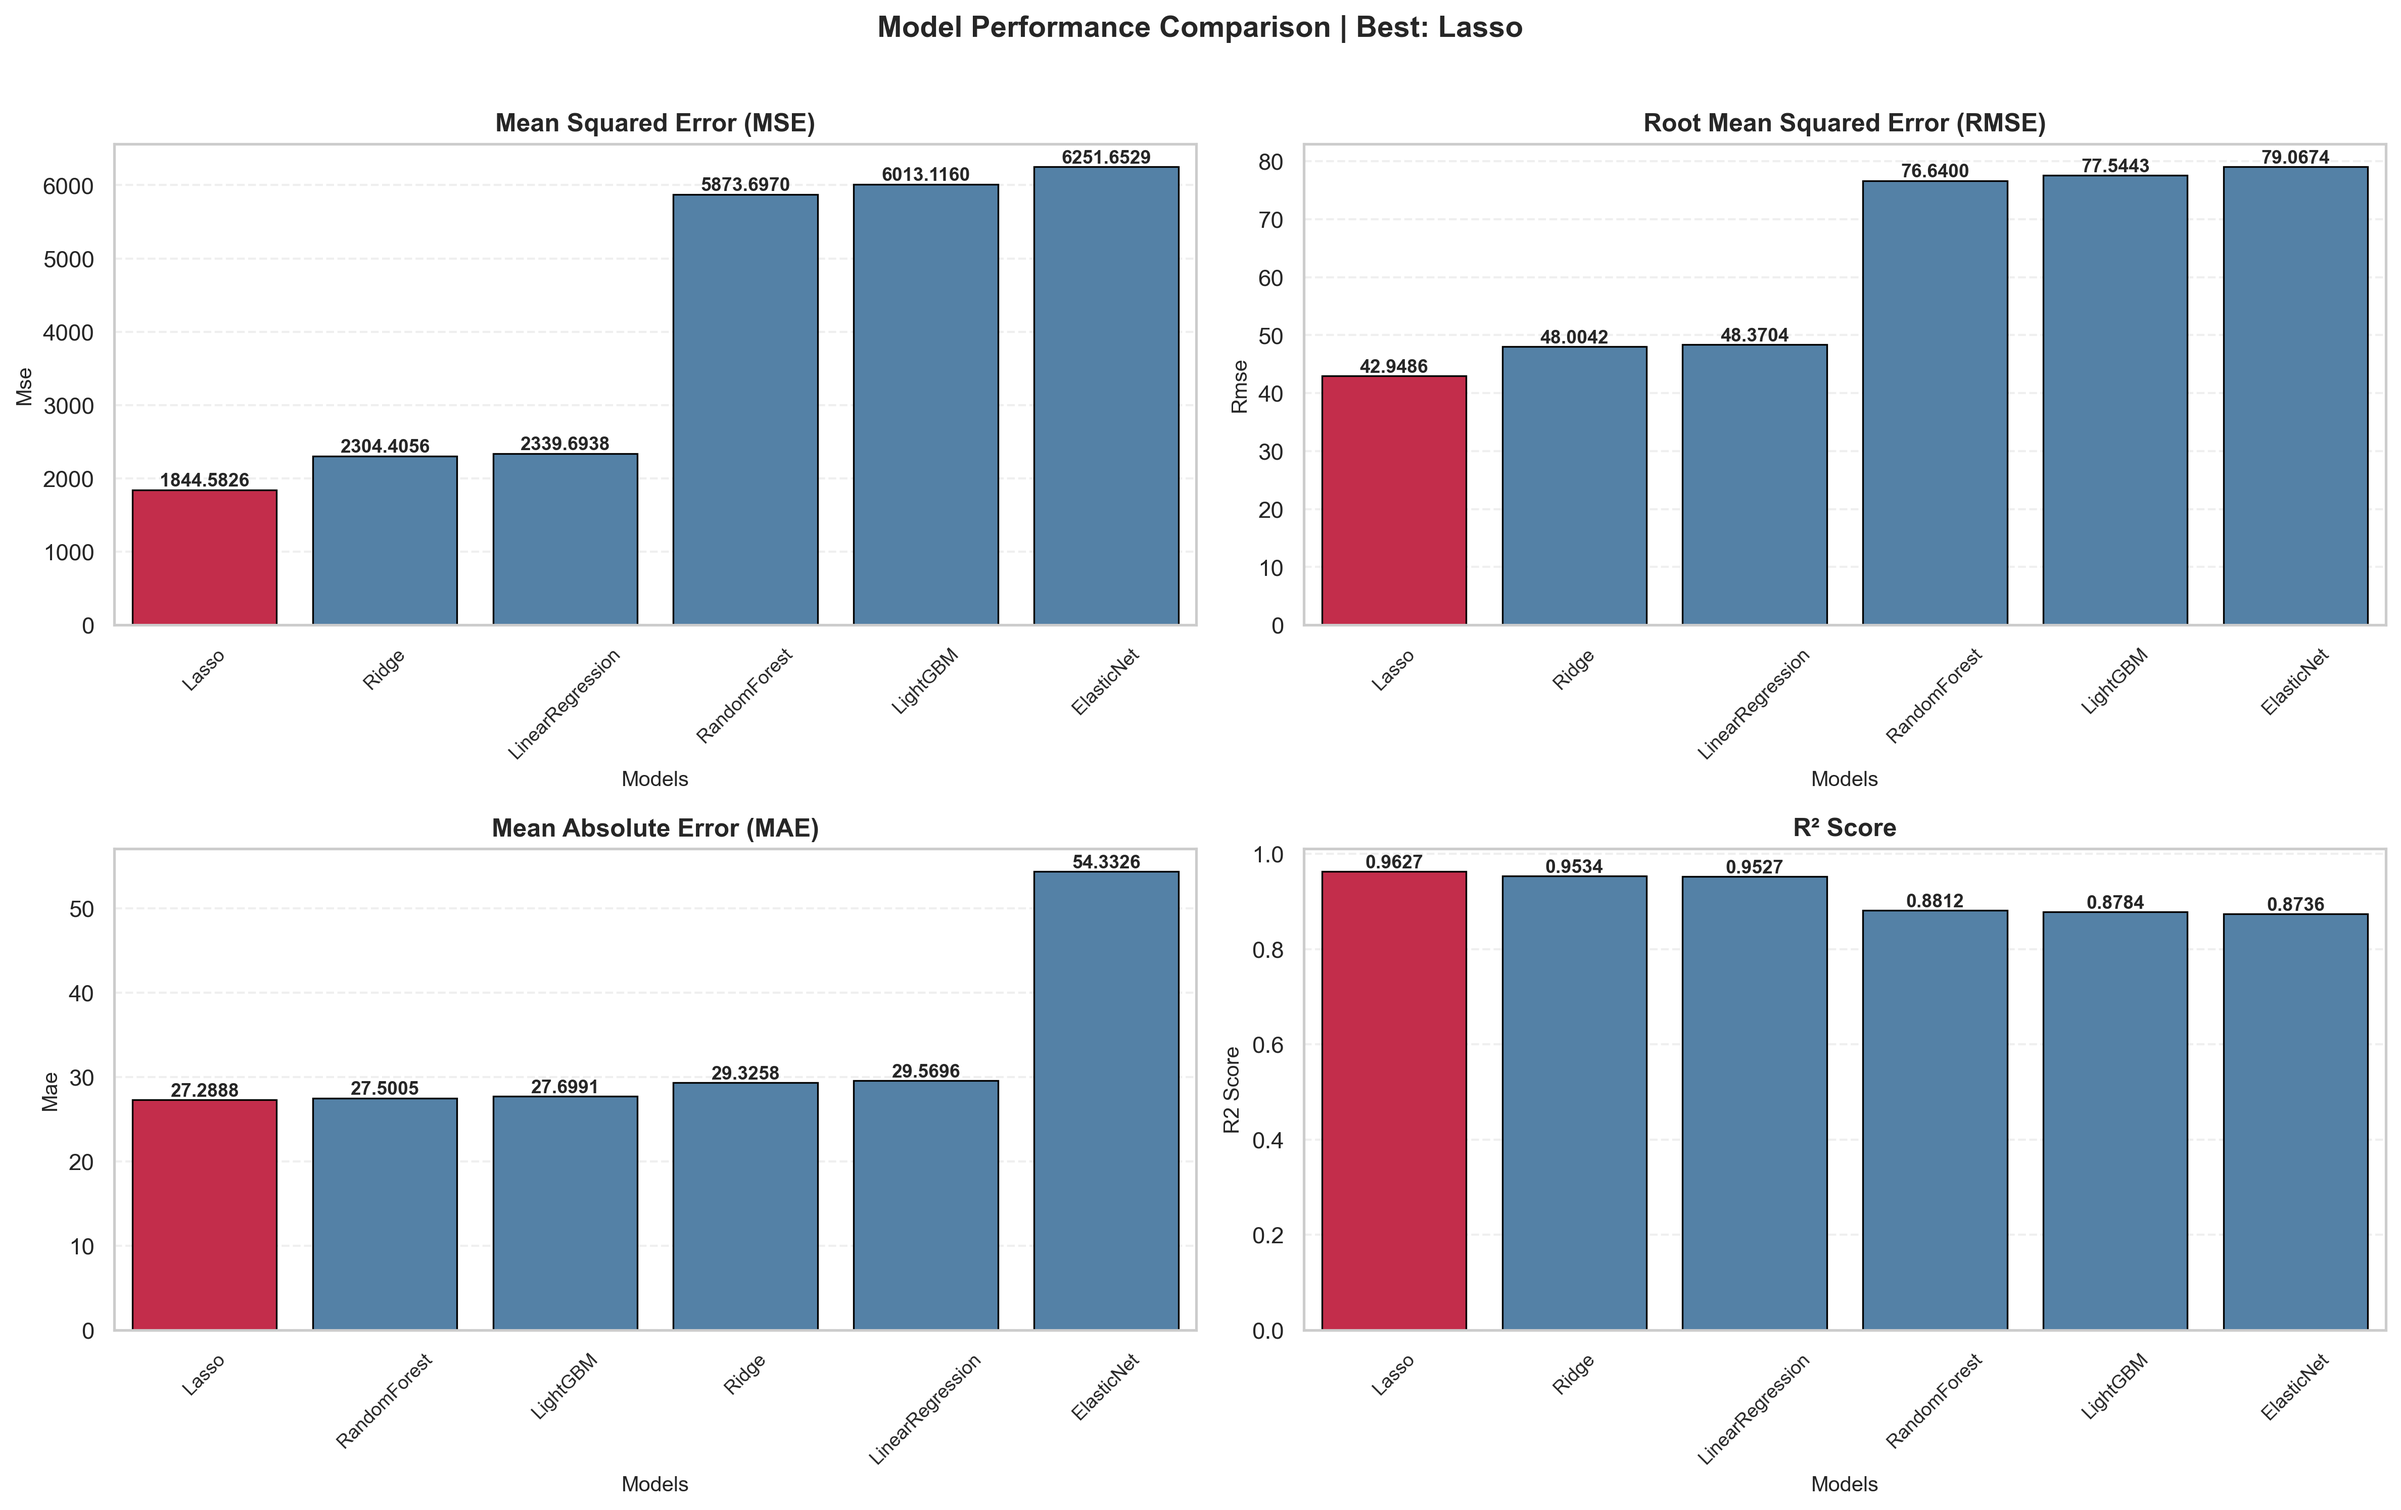
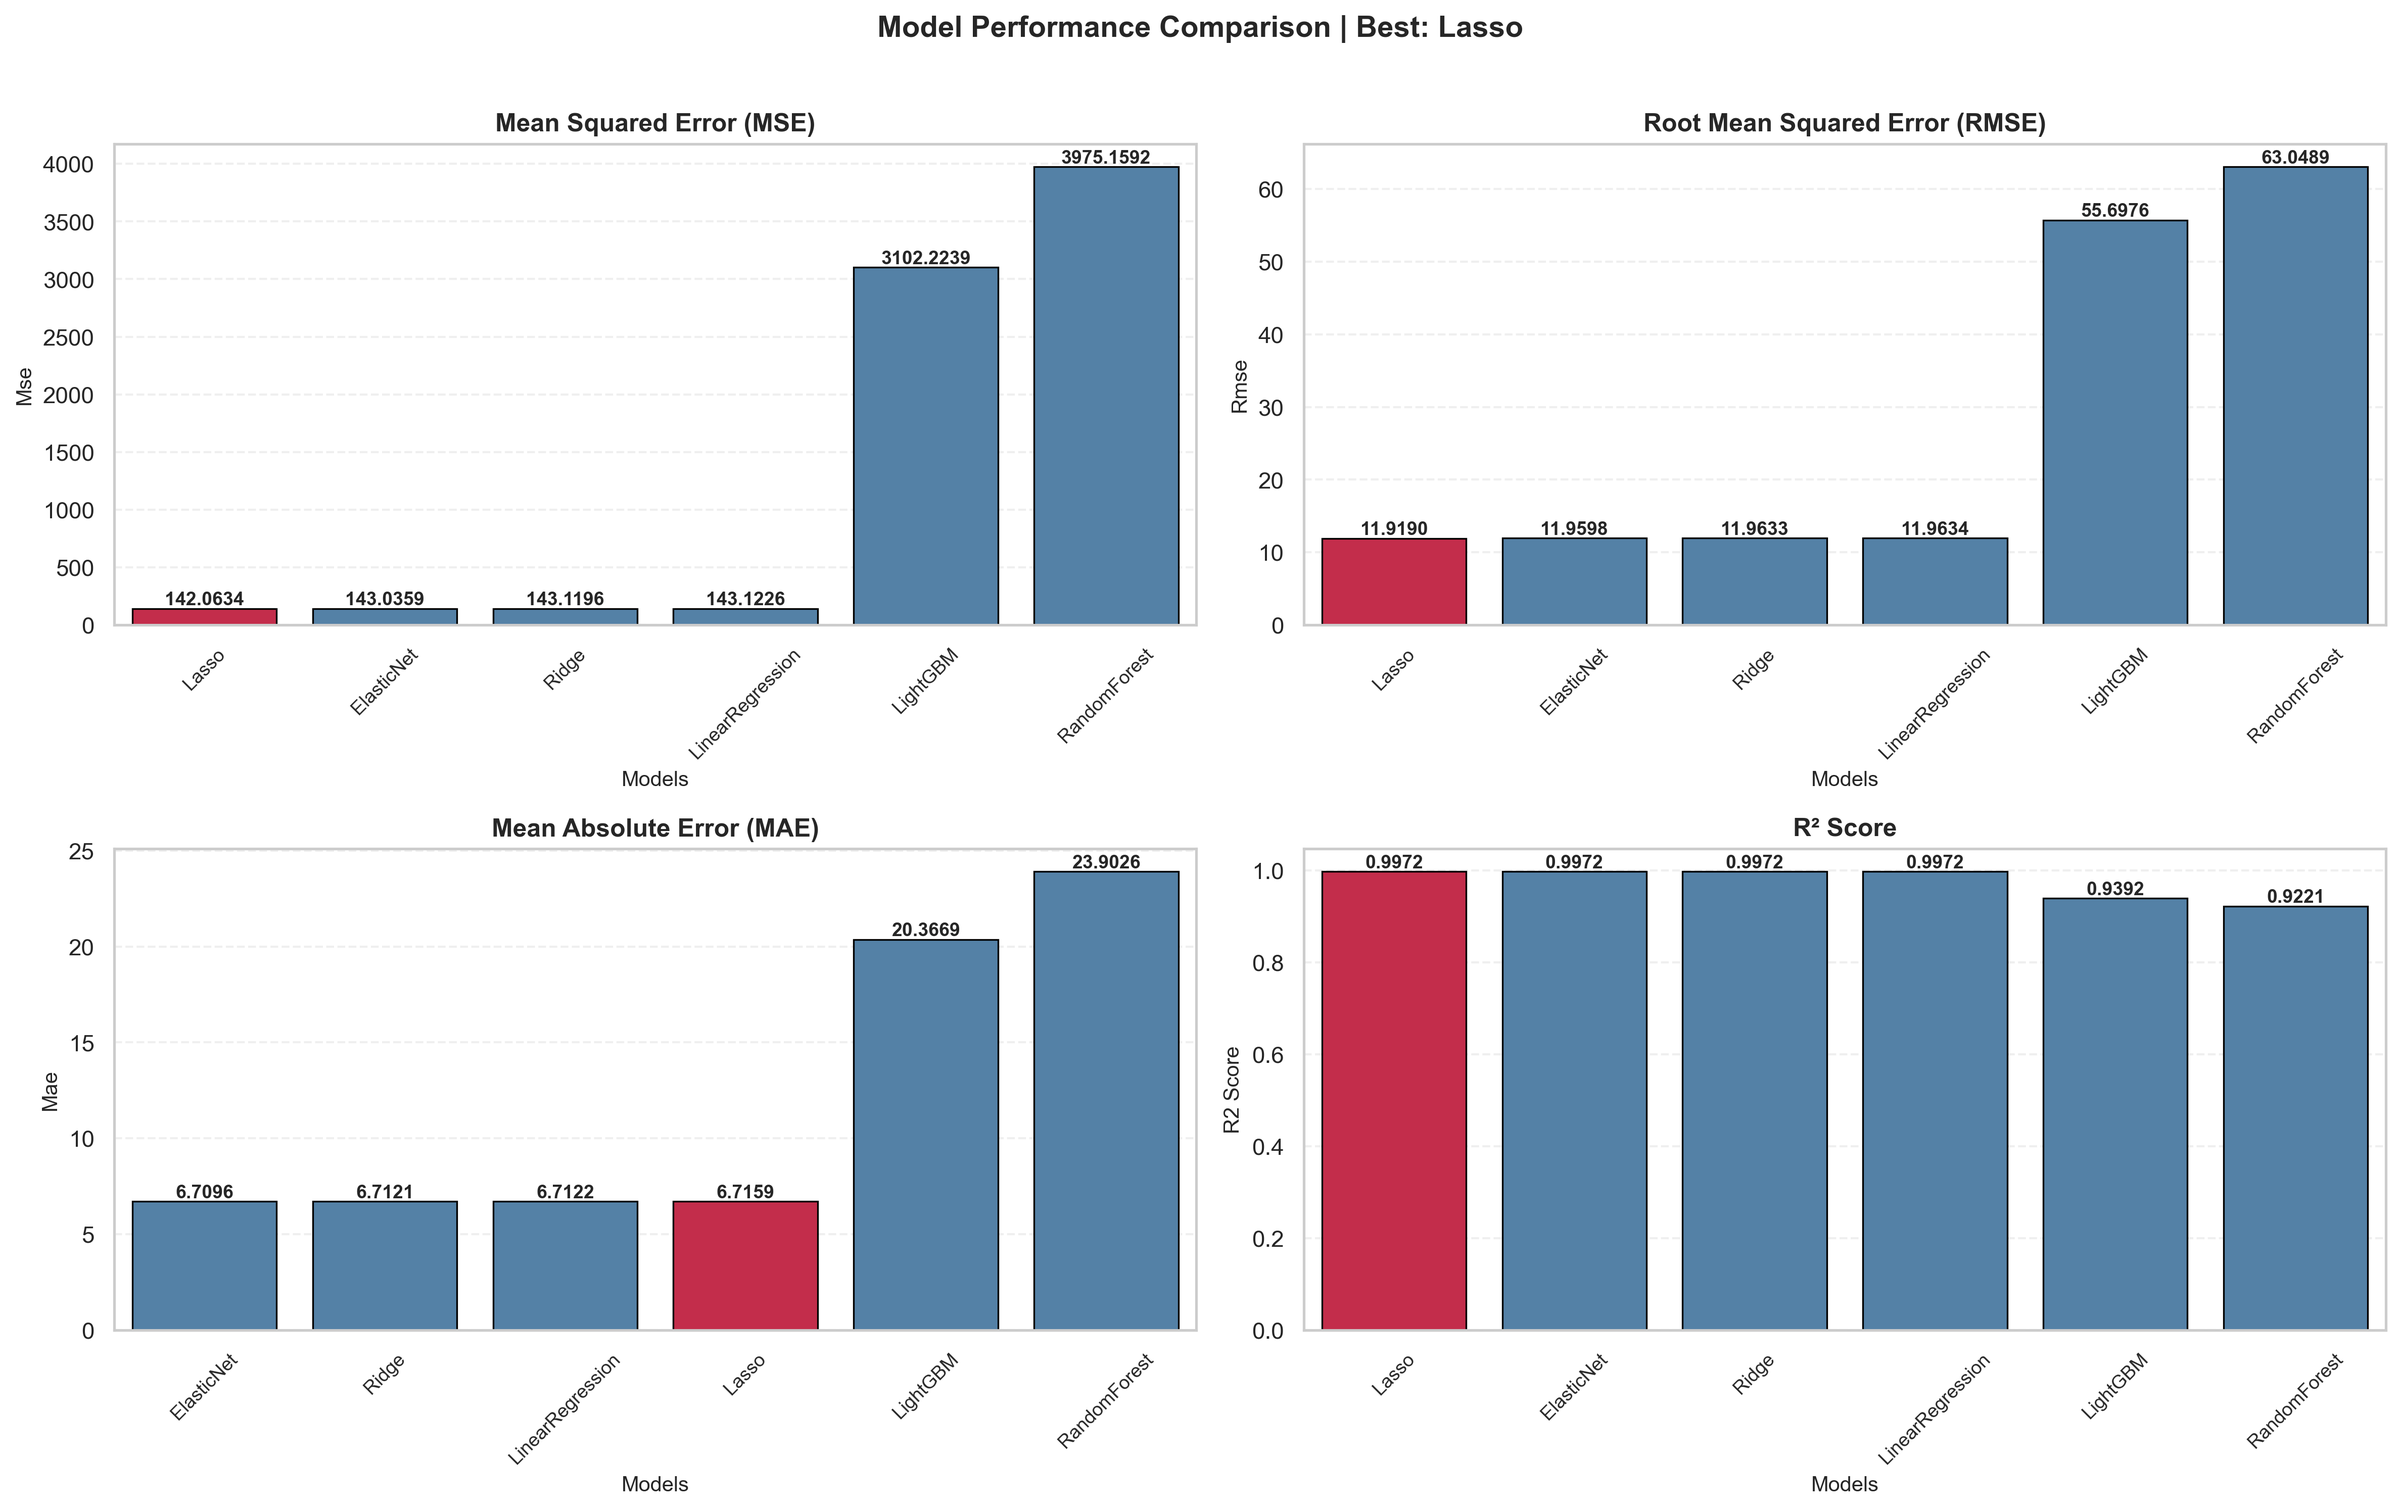
Đổi tên

diff --git a/experiment.py b/experiment.py
@@ -1,0 +1,191 @@
+import pandas as pd
+import logging
+import os
+import itertools
+from Preprocessing import DataPreprocessor
+from Model import ModelTrainer
+
+# Setup logging to file only to avoid cluttering terminal
+def setup_logging():
+    os.makedirs("logs", exist_ok=True)
+    # Clear existing handlers
+    root = logging.getLogger()
+    if root.handlers:
+        for handler in root.handlers:
+            root.removeHandler(handler)
+            
+    logging.basicConfig(
+        filename="logs/experiment.log",
+        level=logging.INFO,
+        format="%(asctime)s [%(name)s]: %(message)s",
+        filemode="w"
+    )
+
+def run_experiment():
+    setup_logging()
+    logger = logging.getLogger("EXPERIMENT")
+    
+    file_path = './FastFoodNutritionMenuV3.csv'
+    target_col = 'calories'
+    
+    # Parameters to iterate
+    num_strategies = ['mean', 'median', 'mode', 'drop']
+    scaling_strategies = ['robust', 'standard']
+    outlier_methods = ['isolation_forest', 'iqr', 'zscore']
+    
+    # Constant parameters from main.py
+    cat_strategy = 'mode'
+    dt_strategy = 'drop'
+    
+    all_results = []
+    
+    combinations = list(itertools.product(num_strategies, scaling_strategies, outlier_methods))
+    total_runs = len(combinations)
+    
+    print(f"Starting experiment with {total_runs} configurations...")
+    
+    for i, (num_strat, scale_strat, outlier_method) in enumerate(combinations, 1):
+        print(f"Run {i}/{total_runs}: num={num_strat}, scale={scale_strat}, outlier={outlier_method}")
+        logger.info(f"=== Run {i}/{total_runs}: num={num_strat}, scale={scale_strat}, outlier={outlier_method} ===")
+        
+        try:
+            # =========================================================================
+            # 1. TIỀN XỬ LÝ SƠ BỘ (SAFE PREPROCESSING)
+            # =========================================================================
+            preprocessor = DataPreprocessor(
+                num_strategy=num_strat,
+                cat_strategy=cat_strategy, 
+                dt_strategy=dt_strategy,
+                scaling_strategy=scale_strat,
+                outlier_method=outlier_method,
+            )
+            preprocessor.load_data(file_path)
+
+            # =========================================================================
+            # 3. Chia dữ liệu TRAIN/TEST, TIẾN HÀNH XỬ LÝ DỮ LIỆU
+            # =========================================================================
+
+            # Drop cột rác và clean giá trị âm
+            preprocessor.drop_features(['calories_from_fat', 'weight_watchers_pnts', 'company', 'item'])
+            preprocessor.clean_negative_values()
+            
+            # One-hot encoding (Làm trước split để đảm bảo đồng bộ cột)
+            preprocessor.encode_categorical(strategy='onehot')
+
+            # Loại bỏ duplicate trước khi chia train/test
+            preprocessor.remove_duplicates()
+            
+            # Lấy dữ liệu tạm thời (đã clean cơ bản)
+            current_data = preprocessor.get_processed_data()
+
+            trainer = ModelTrainer(random_state=42)
+            
+            # Nạp dữ liệu vào ModelTrainer
+            trainer.load_data(current_data, target_column=target_col)
+            
+            # GỌI HÀM CỦA CLASS ĐỂ CHIA TRAIN/TEST
+            train_df, test_df = trainer.split_data(test_size=0.2)
+
+            # --- Xử lý tập TRAIN (FIT & TRANSFORM) ---
+            # 1. Missing
+            train_processed = preprocessor.handle_missing_values(data=train_df, fit=True)
+            
+            # 2. Outliers
+            train_processed = preprocessor.handle_outliers(
+                data=train_processed, 
+                exclude_features=[target_col] 
+            )
+            
+            # 3. Scaling
+            train_processed = preprocessor.scale_features(
+                data=train_processed, 
+                exclude_features=[target_col], 
+                fit=True
+            )
+
+            # --- Xử lý tập TEST (CHỈ TRANSFORM) ---
+            # 1. Missing
+            test_processed = preprocessor.handle_missing_values(data=test_df, fit=False)
+            
+            # 2. Scaling
+            test_processed = preprocessor.scale_features(
+                data=test_processed, 
+                exclude_features=[target_col], 
+                fit=False
+            )
+
+            # =========================================================================
+            # 5. HUẤN LUYỆN & ĐÁNH GIÁ
+            # =========================================================================
+            
+            # Nạp dữ liệu sạch ngược lại vào Trainer để tách X, y
+            trainer.set_training_data(train_processed, test_processed, target_col=target_col)
+            
+            # Khởi tạo các mô hình
+            trainer.initialize_models()
+            
+            # Train tất cả models
+            trainer.train_models()
+            
+            # Đánh giá và so sánh tất cả models
+            results_dict = trainer.evaluate_models()
+            results = results_dict['results'] # List of dicts
+            
+            for res in results:
+                res['num_strategy'] = num_strat
+                res['scaling_strategy'] = scale_strat
+                res['outlier_method'] = outlier_method
+                all_results.append(res)
+                
+        except Exception as e:
+            logger.error(f"Error in run {i}: {str(e)}")
+            print(f"Error in run {i}: {str(e)}")
+
+    # Create DataFrame
+    df_results = pd.DataFrame(all_results)
+    
+    # Sheet 1: Average metrics for all 6 models (grouped by configuration)
+    summary_by_config = df_results.groupby(['num_strategy', 'scaling_strategy', 'outlier_method'])[['mse', 'rmse', 'mae', 'r2_score']].mean().reset_index()
+    
+    # Rename and Reorder Sheet 1
+    summary_by_config = summary_by_config.rename(columns={
+        'r2_score': 'R2',
+        'mse': 'MSE',
+        'mae': 'MAE',
+        'rmse': 'RMSE'
+    })
+    summary_by_config = summary_by_config[['num_strategy', 'scaling_strategy', 'outlier_method', 'R2', 'MSE', 'MAE', 'RMSE']]
+    
+    # Sheet 2: Best model for each configuration based on R2 score
+    idx = df_results.groupby(['num_strategy', 'scaling_strategy', 'outlier_method'])['r2_score'].idxmax()
+    best_model_df = df_results.loc[idx].reset_index(drop=True)
+    
+    # Rename and Reorder Sheet 2
+    best_model_df = best_model_df.rename(columns={
+        'model_name': 'Best model',
+        'r2_score': 'R2',
+        'mse': 'MSE',
+        'mae': 'MAE',
+        'rmse': 'RMSE'
+    })
+    best_model_df = best_model_df[['num_strategy', 'scaling_strategy', 'outlier_method', 'Best model', 'R2', 'MSE', 'MAE', 'RMSE']]
+    
+    # Save to Excel
+    output_file = "results/experiment_results.xlsx"
+    os.makedirs("results", exist_ok=True)
+    
+    try:
+        with pd.ExcelWriter(output_file, engine='openpyxl') as writer:
+            summary_by_config.to_excel(writer, sheet_name='Average_Metrics', index=False)
+            best_model_df.to_excel(writer, sheet_name='Best_Model', index=False)
+            df_results.to_excel(writer, sheet_name='All_Results', index=False)
+        print(f"Experiment completed. Results saved to {output_file}")
+    except ImportError:
+        print("Error: openpyxl is not installed. Saving to CSVs instead.")
+        summary_by_config.to_csv("results/experiment_average_metrics.csv", index=False)
+        best_model_df.to_csv("results/experiment_best_model.csv", index=False)
+        df_results.to_csv("results/experiment_all_results.csv", index=False)
+        print("Results saved to CSV files in results/ directory.")
+
+if __name__ == "__main__":
+    run_experiment()

diff --git a/pipeline.py b/pipeline.py
@@ -39,11 +39,11 @@ if __name__ == "__main__":
 	# =========================================================================
 
 	preprocessor = DataPreprocessor(
-		num_strategy='mean',
+		num_strategy='drop',
 		cat_strategy='mode', 
 		dt_strategy='drop',
-		scaling_strategy='robust',
-		outlier_method='isolation_forest',
+		scaling_strategy='standard',
+		outlier_method='zscore',
 	)
 	preprocessor.load_data(file_path)
 
@@ -51,8 +51,8 @@ if __name__ == "__main__":
 	# 2. EDA TRƯỚC KHI XỬ LÝ DỮ LIỆU
 	# =========================================================================
 
-	# eda_before = EDA(preprocessor.get_processed_data(), show_plots=False)
-	# eda_before.perform_eda(save_path='plots/eda/before')
+	eda_before = EDA(preprocessor.get_processed_data(), show_plots=False)
+	eda_before.perform_eda(save_path='plots/eda/before')
 
 	# =========================================================================
 	# 3. Chia dữ liệu TRAIN/TEST, TIẾN HÀNH XỬ LÝ DỮ LIỆU
@@ -123,14 +123,14 @@ if __name__ == "__main__":
 	# 4. EDA SAU KHI XỬ LÝ DỮ LIỆU
 	# =========================================================================
 
-	# merged_df = pd.concat([train_processed, test_processed], ignore_index=True)
+	merged_df = pd.concat([train_processed, test_processed], ignore_index=True)
 	
-	# logger.info(f"Train set size: {len(train_processed)}")
-	# logger.info(f"Test set size: {len(test_processed)}")
-	# logger.info(f"Merged set size: {len(merged_df)}")
+	logger.info(f"Train set size: {len(train_processed)}")
+	logger.info(f"Test set size: {len(test_processed)}")
+	logger.info(f"Merged set size: {len(merged_df)}")
 	
-	# eda_after = EDA(merged_df, show_plots=False)
-	# eda_after.perform_eda(save_path='plots/eda/after')
+	eda_after = EDA(merged_df, show_plots=False)
+	eda_after.perform_eda(save_path='plots/eda/after')
 
 	# # =========================================================================
 	# # =========================================================================
@@ -144,10 +144,10 @@ if __name__ == "__main__":
 	trainer.initialize_models()
 
 	# Optimize hyperparams cho tất cả models (50 trials)
-	# models_to_optimize = ['RandomForest', 'LightGBM', 'Ridge', 'Lasso', 'ElasticNet']
-	# for model_name in models_to_optimize:
-	#     logger.info(f"Optimizing {model_name}...")
-	#     trainer.optimize_params(model_name, n_trials=50, n_jobs=3)
+	models_to_optimize = ['RandomForest', 'LightGBM', 'Ridge', 'Lasso', 'ElasticNet']
+	for model_name in models_to_optimize:
+		logger.info(f"Optimizing {model_name}...")
+		trainer.optimize_params(model_name, n_trials=50, n_jobs=3)
 	
 	# Train tất cả models với params đã optimize
 	trainer.train_models()
@@ -160,7 +160,7 @@ if __name__ == "__main__":
 	trainer.save_results(filepath="results/evaluation_results.json", format='json')
 	
 	# Lưu mô hình tốt nhất
-	# trainer.save_model()
+	trainer.save_model()
 	
 	# =========================================================================
 	# 6. VISUALIZE
@@ -169,7 +169,7 @@ if __name__ == "__main__":
 	vis.plot_model_comparison(save_path='plots/comparison.png')
 	
 	# Feature importance (top_n đã được xử lý trong get_feature_importance)
-	# imp_df = trainer.get_feature_importance(top_n=15)
-	# vis.plot_feature_importance(imp_df, save_path='plots/importance.png')
+	imp_df = trainer.get_feature_importance(top_n=15)
+	vis.plot_feature_importance(imp_df, save_path='plots/importance.png')
 
 	logger.info("Process Completed.")
